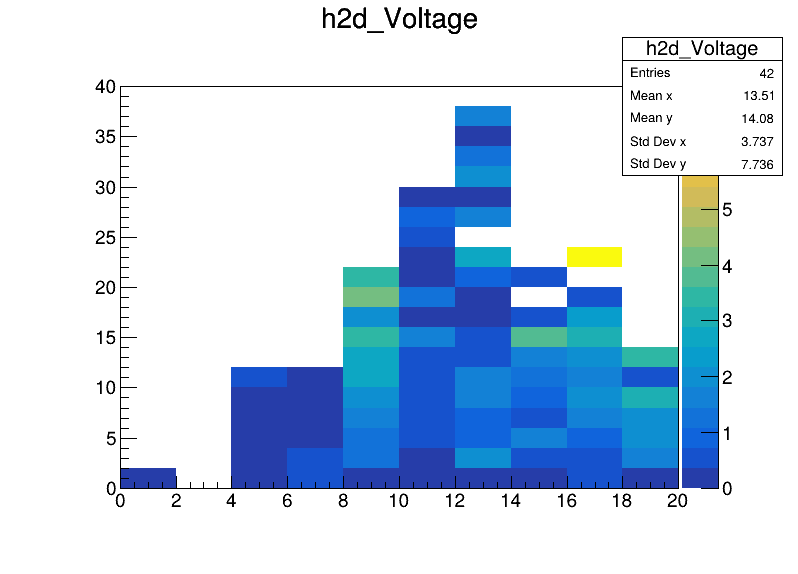
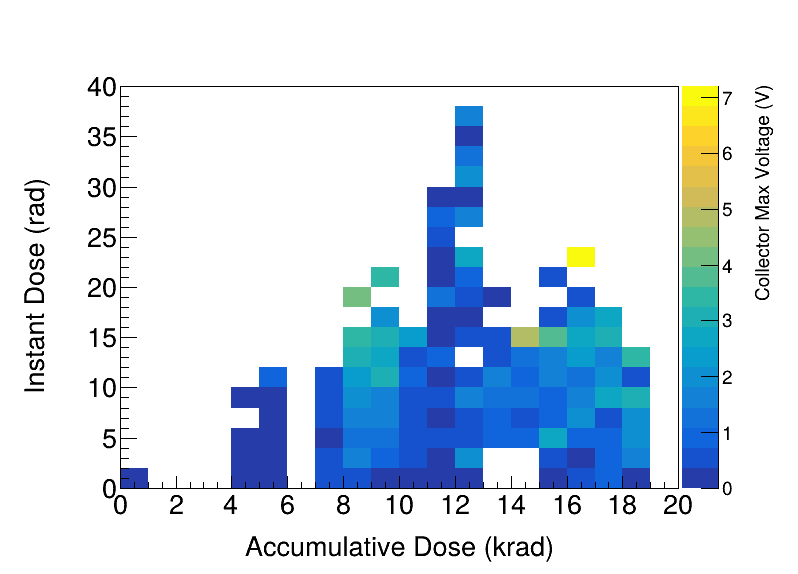
Finish Plot for Phil

diff --git a/AstranisDataAnalysis/Colsolidated/analysis.C b/AstranisDataAnalysis/Colsolidated/analysis.C
@@ -155,6 +155,10 @@ void analysis_respose_vs_totalDose(const std::vector<TUPLE_T> &shotData) {
     // gr_CollectorResponse->GetYaxis()->SetRangeUser(0, 4);
     c->SaveAs("CollectorResponseVsAccumulativeDose_0219_0311.png");
 
+    c->SetLogy();
+    gr_CollectorResponse->GetYaxis()->SetRangeUser(1E-5, 1E4);
+    c->SaveAs("CollectorResponseVsAccumulativeDose_0219_0311_log.png");
+
     delete gr_CollectorResponse;
     delete c;
 }
@@ -164,13 +168,14 @@ void analysis_maxVoltage_vs_instantDose_vs_totalDose(const std::vector<TUPLE_T> 
     auto collectorMaxVoltage = CalculateCollectorMaxVoltage(shotData);
     auto instantDose = CalculateInstantDose(shotData); // rad
 
-    auto h2d_Voltage = new TH2D("h2d_Voltage", "h2d_Voltage", 10, 0, 20, 20, 0, 40);
-    auto h2d_N       = new TH2D("h2d_N",       "h2d_N",       10, 0, 20, 20, 0, 40);
+    auto h2d_Voltage = new TH2D("h2d_Voltage", "h2d_Voltage", 20, 0, 20, 20, 0, 40);
+    auto h2d_N       = new TH2D("h2d_N",       "h2d_N",       20, 0, 20, 20, 0, 40);
     for (int i = 0; i < shotData.size(); i++) {
         h2d_Voltage->Fill(cumulativeDose[i], instantDose[i], collectorMaxVoltage[i]);
         h2d_N->Fill(cumulativeDose[i], instantDose[i], 1);
     }
 
+    gStyle->SetOptStat(0);
     auto c = new TCanvas("c", "c", 800, 600);
     c->SetLeftMargin(0.15);
     c->SetRightMargin(0.15);
@@ -178,6 +183,20 @@ void analysis_maxVoltage_vs_instantDose_vs_totalDose(const std::vector<TUPLE_T> 
     c->SetTopMargin(0.15);
     h2d_Voltage->Divide(h2d_N);
     h2d_Voltage->Draw("colz");
+    h2d_Voltage->SetTitle("");
+    h2d_Voltage->GetXaxis()->SetTitle("Accumulative Dose (krad)");
+    h2d_Voltage->GetYaxis()->SetTitle("Instant Dose (rad)");
+    h2d_Voltage->GetZaxis()->SetTitle("Collector Max Voltage (V)");
+    h2d_Voltage->GetXaxis()->CenterTitle();
+    h2d_Voltage->GetYaxis()->CenterTitle();
+    h2d_Voltage->GetXaxis()->SetTitleSize(0.05);
+    h2d_Voltage->GetYaxis()->SetTitleSize(0.05);
+    h2d_Voltage->GetXaxis()->SetLabelSize(0.05);
+    h2d_Voltage->GetYaxis()->SetLabelSize(0.05);
+    h2d_Voltage->GetXaxis()->SetTitleOffset(1.3);
+    h2d_Voltage->GetYaxis()->SetTitleOffset(1.3);
+    h2d_Voltage->SetMarkerStyle(22);
+    h2d_Voltage->SetMarkerSize(0.8);
     c->SaveAs("MaxVoltageVsInstantDoseVsAccumulativeDose_0219_0311.png");
 }
 
